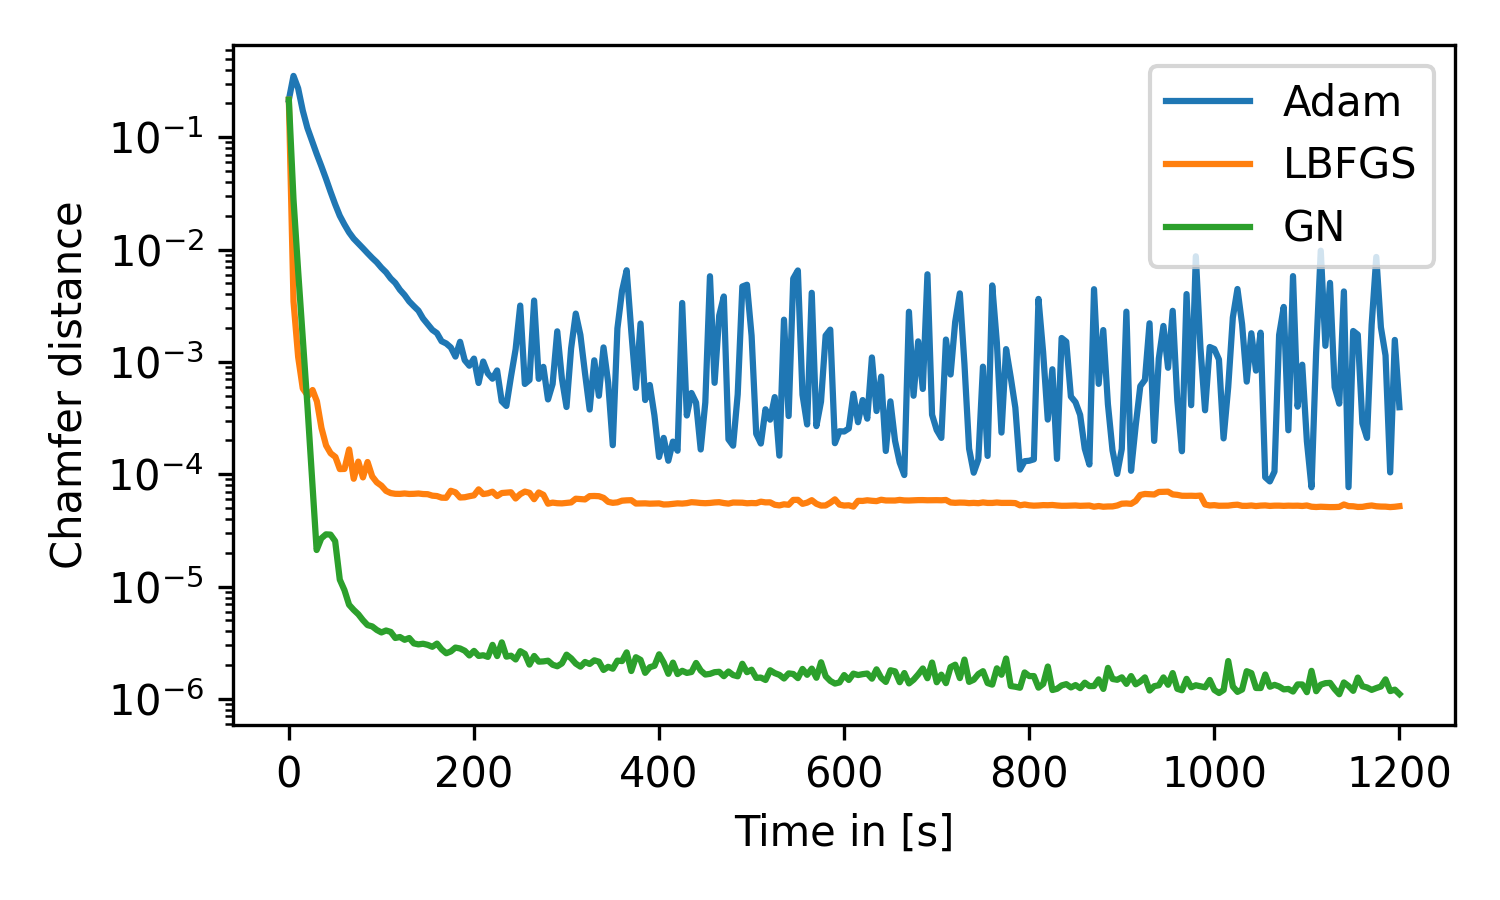
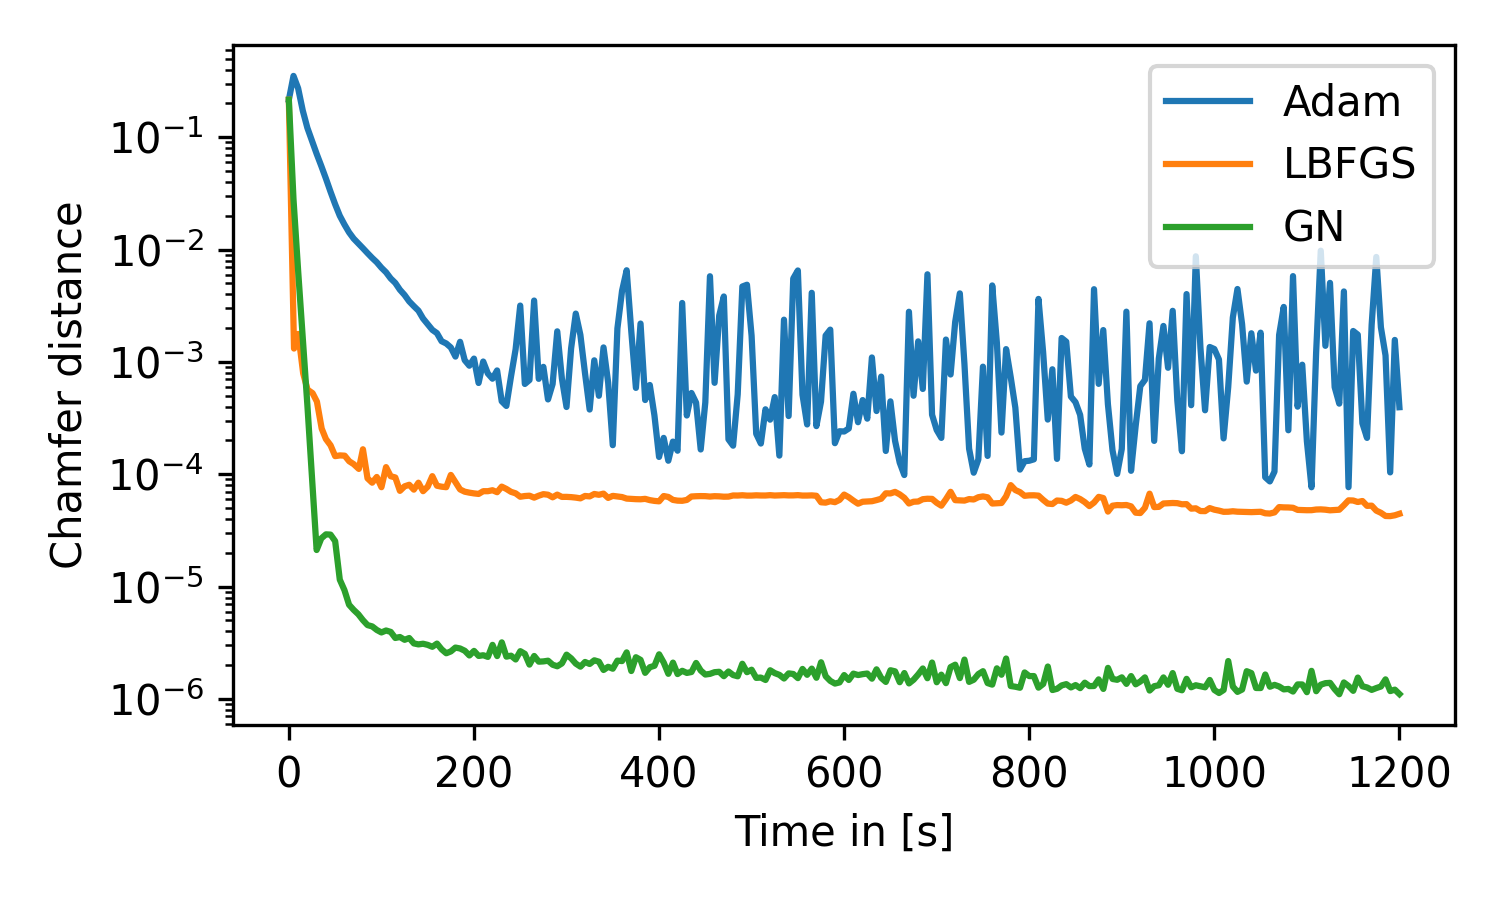
Fix LBFGS

Changed region(s): [[0.2147, 0.4978, 0.9507, 0.5911], [0.184, 0.4044, 0.2147, 0.4356], [0.184, 0.3422, 0.2147, 0.3733]]

diff --git a/experiments/tasks/curvature_task.py b/experiments/tasks/curvature_task.py
@@ -14,13 +14,14 @@ from experiments.metrics import project_to_model, chamfer, curvature_stats, clip
 
 class CurvatureTask:
     curvature = "mean_curvature"  ## residual in training.residuals.ResidualLibrary, without the leading "_"
-    eikonal_weights = {"gn": 1e-3, "adam": 1e-3, "lbfgs": 1e-3}  ## per optimizer, as for the paper figures
+    ## Per optimizer: GN and Adam as for the paper figures; LBFGS chosen by an eikonal sweep (lower weights let it collapse f -> 0)
+    eikonal_weights = {"gn": 1e-3, "adam": 1e-3, "lbfgs": 1e-3}
     eikonal_with_boundary = True  ## also enforce the eikonal equation on the boundary points
     refine_surface = False        ## Newton-refine the binary-search surface samples during training
     opt_defaults = {
         "gn":    dict(lr=1e-1, regularization=1e-6, do_line_search=False),
         "adam":  dict(lr=1e-3),
-        "lbfgs": dict(),  ## torch defaults (lr=1, max_iter=20, history_size=100)
+        "lbfgs": dict(line_search_fn="strong_wolfe"),  ## otherwise torch defaults (lr=1, max_iter=20, history_size=100)
     }
     figure_opts = ["adam", "lbfgs", "gn"]  ## optimizers shown in the paper figures, left to right
     table_keys = ["loss", "cd", "cd_t2m", "cd_m2t", "hausdorff", "interface_rms", "curv_rms", "curv_max", "area_err_discrete"]

diff --git a/experiments/tasks/cone.py b/experiments/tasks/cone.py
@@ -12,14 +12,13 @@ from experiments.tasks.curvature_task import CurvatureTask
 
 class Cone(CurvatureTask):
     curvature = "gauss_curvature"
-    eikonal_weights = {"gn": 1e-3, "adam": 1e-1, "lbfgs": 1e-3}
+    eikonal_weights = {"gn": 1e-3, "adam": 1e-1, "lbfgs": 1e-2}
     eikonal_with_boundary = False
     refine_surface = True
     opt_defaults = {**CurvatureTask.opt_defaults, "adam": dict(lr=1e-4)}
     paper_data = "notebooks/Data Cone/{}_over_time_cone_{}.pth"
     mesh_bbox = ((-2, -2, -0.05), (2, 2, 1.05))
     heatmap = dict(color_range=(0, 0.005), elevation=25, azimuth=0, gap=0.08)  ## Figure 3a
-    figure_opts = ["adam", "gn"]  ## LBFGS diverges
 
     def __init__(self, r_bottom=1.0, r_top=0.4, height=1.0):
         self.r_bottom, self.r_top, self.height = r_bottom, r_top, height

diff --git a/experiments/tasks/enneper.py b/experiments/tasks/enneper.py
@@ -16,11 +16,10 @@ def enneper(u, v):
 
 
 class Enneper(CurvatureTask):
-    eikonal_weights = {"gn": 1e-3, "adam": 1e-1, "lbfgs": 1e-3}
+    eikonal_weights = {"gn": 1e-3, "adam": 1e-1, "lbfgs": 1e-1}
     paper_data = "notebooks/Data Enneper/{}_over_time_enneper_{}.pth"
     mesh_bbox = ((-0.85, -0.85, -0.85), (0.85, 0.85, 0.85))  ## for the heatmap
     heatmap = dict(color_range=(0, 0.002), elevation=15, azimuth=35, gap=0.1)  ## Figure 2a
-    figure_opts = ["adam", "gn"]  ## LBFGS diverges
 
     def __init__(self, r_max=0.9):
         self.r_max = r_max
